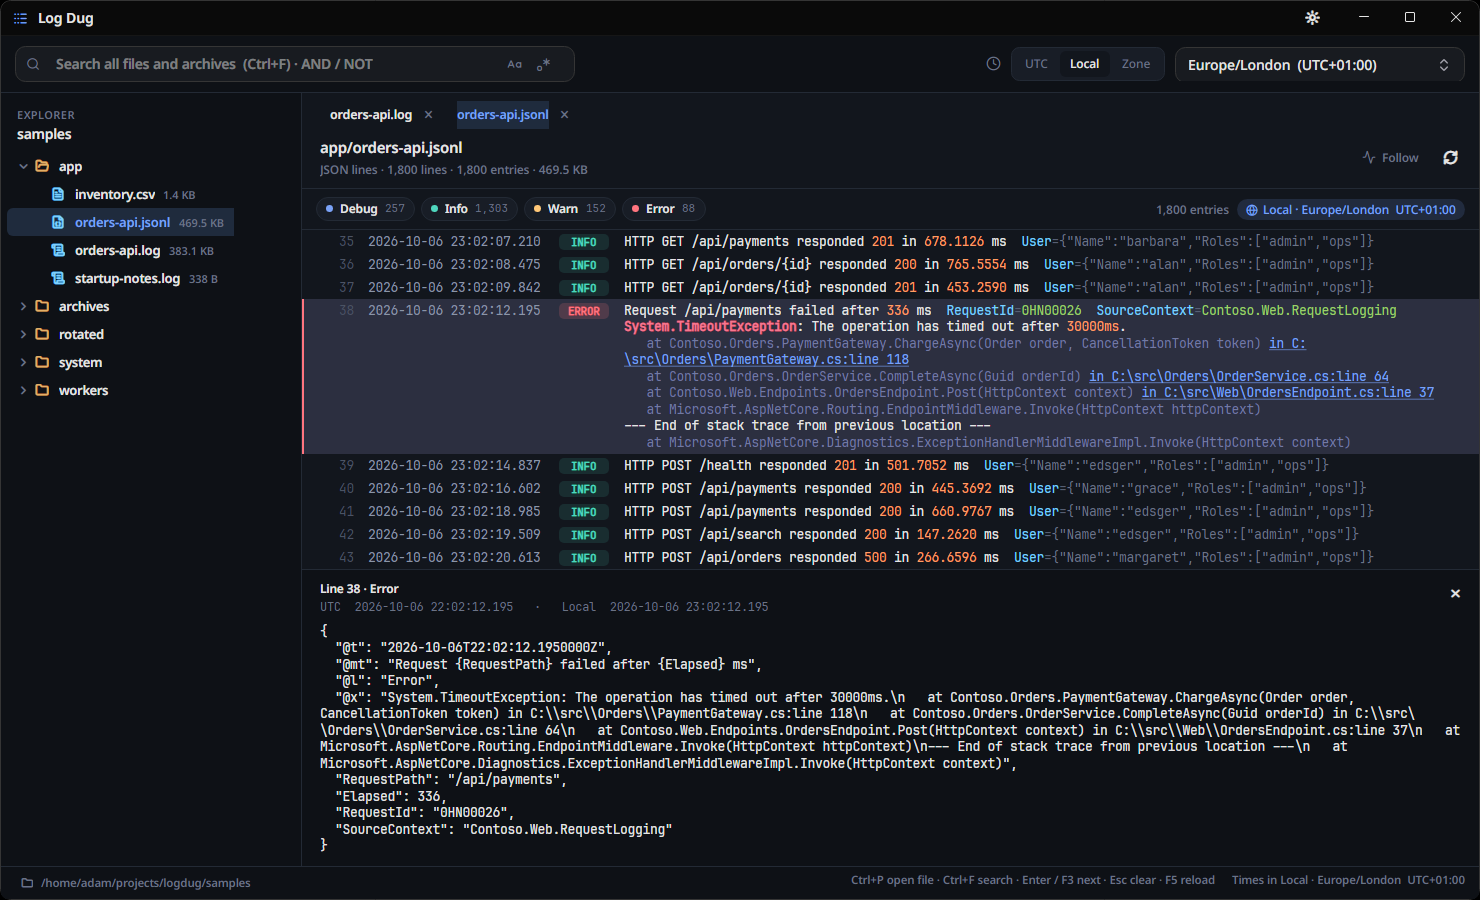
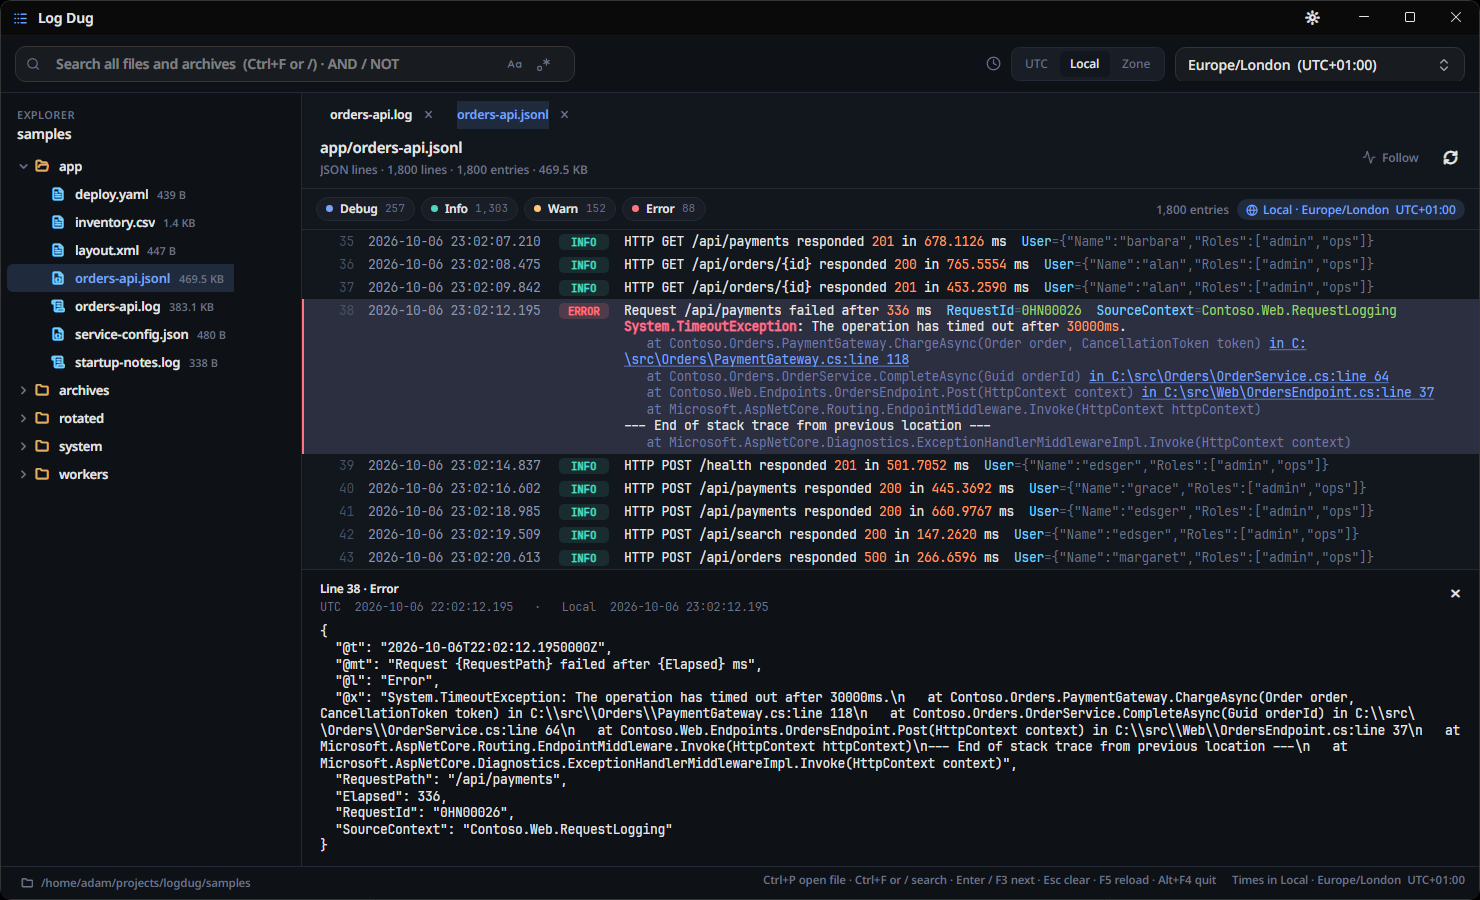
Open a file argument itself, fold JSON/XML/YAML, show text selection
- A file given on the command line (right-click Open with) opens once its folder loads
- JSON, XML and YAML files fold by indentation, with Fold all / Unfold all
- Minified .json files are spread over lines
- Selected log text is highlighted
- Hide the level chips for files with no levels

Changed region(s): [[0.0, 0.1867, 0.1554, 0.5289], [0.5284, 0.9644, 0.8081, 0.9956], [0.1865, 0.0622, 0.2797, 0.0933]]

diff --git a/README.md b/README.md
@@ -12,6 +12,7 @@ A desktop log browser written in F#. Point it at a folder and it shows a file tr
 - **CSV and TSV** files (also `;` and `|` separated) show as an aligned table with a highlighted header row. Quoted cells, doubled quotes and newlines inside quotes are handled.
 - **Search everything** in plain text or regex mode, with optional match case. Combine terms with `AND` and `NOT` (`timeout AND retry NOT healthcheck`). Select text in the log, right-click, and choose *Include in search* or *Exclude from search* to add it to the query. A *Highlight / Filter / Ignore* toggle on each open file chooses whether the search colours its matches, shows only the matching entries, or leaves the file alone.
 - **Tabs and quick open.** Files stay open as tabs (Ctrl+W closes one). Ctrl+P jumps to any file under the root, archives included, by typing part of its path. Click the folder in the bottom left (or press Ctrl+O) to browse a different root.
+- **Fold JSON, XML and YAML.** Files with those extensions (and `.gz` of them) show as lines with chevrons that collapse indented blocks, plus *Fold all* / *Unfold all*. A minified `.json` file is spread over lines first.
 - **Select and copy** text in the log with the mouse or Ctrl+C.
 - **Search results**: Results stream in per file and are grouped by file. Click a result, or press Enter/F3, to open the file, expand the tree to it, and select the matching entry.
 - **Time display** in UTC, the OS local zone, or a target zone chosen from a list. The active zone is always shown above the log, and the detail pane shows UTC, local and target times for the selected entry. Timestamps without an offset are treated as UTC.
